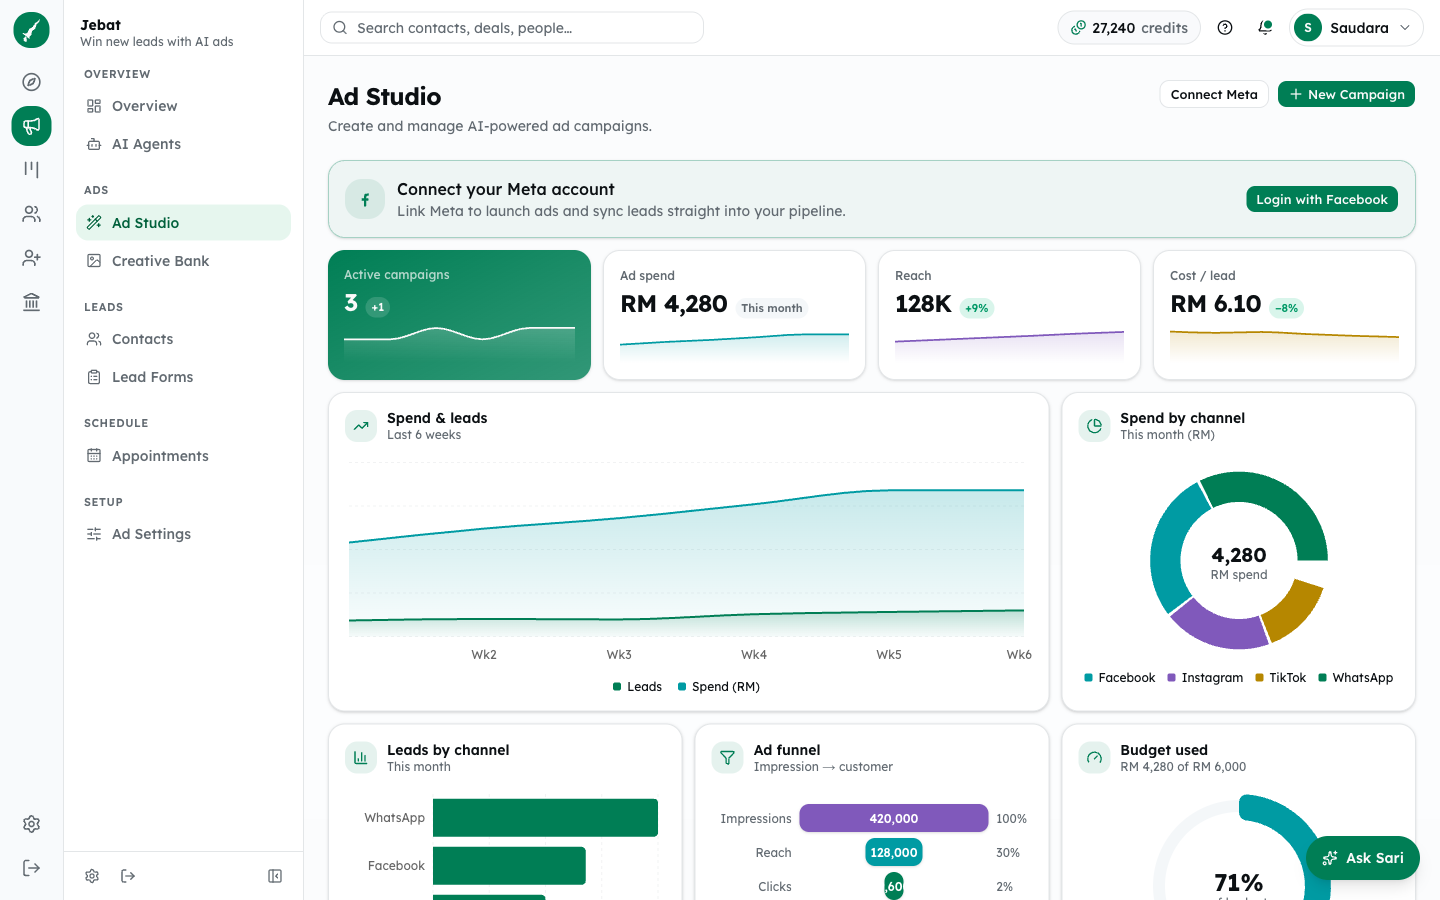
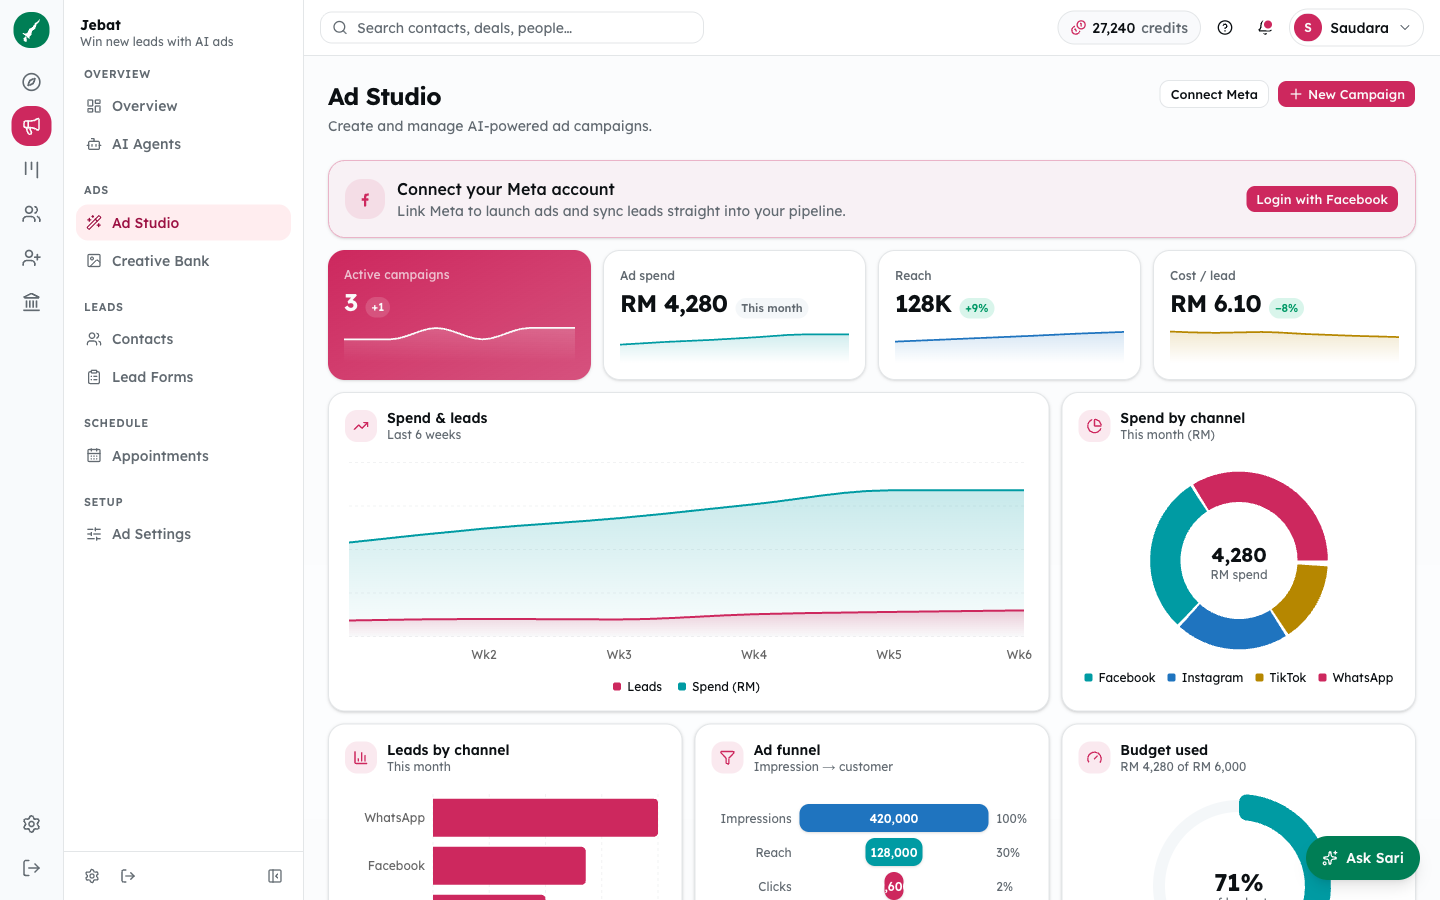
feat-040-product-colours (#48)
* feat: give each product its own accent colour inside the app

* feat: use product colours in the landing tour, keris section and hero

* docs: recapture screenshots with product colours

* fix: remove purple from the palette (blue chart series, slate status chips, rose Jebat)

* docs: recapture screenshots without purple

---------

diff --git a/src/app/globals.css b/src/app/globals.css
@@ -5,6 +5,7 @@
 @custom-variant dark (&:is(.dark *));
 
 @theme inline {
+  --color-brand: var(--brand);
   --color-background: var(--background);
   --color-foreground: var(--foreground);
   --font-sans: var(--font-sans);
@@ -54,6 +55,31 @@
  * Neutrals kept near-grayscale for the clean dashboard surfaces.
  */
 :root {
+  /* Brand emerald: the logo and Taming Sari stay this colour everywhere. */
+  --brand: oklch(0.52 0.125 164);
+
+  /*
+   * One accent per product. The plain value is for light surfaces (white text
+   * sits on it); the -bright value is for dark surfaces such as the landing page.
+   */
+  --product-command: oklch(0.52 0.125 164);
+  --product-command-bright: oklch(0.77 0.15 163);
+  --product-reach: oklch(0.56 0.2 8);
+  --product-reach-bright: oklch(0.76 0.15 8);
+  --product-crm: oklch(0.53 0.095 210);
+  --product-crm-bright: oklch(0.79 0.12 205);
+  --product-people: oklch(0.52 0.16 257);
+  --product-people-bright: oklch(0.75 0.13 250);
+  --product-hire: oklch(0.57 0.17 48);
+  --product-hire-bright: oklch(0.78 0.15 55);
+  --product-finance: oklch(0.54 0.115 78);
+  --product-finance-bright: oklch(0.83 0.14 85);
+
+  /* Active accent; a product scope (below) swaps these three. */
+  --pc: var(--brand);
+  --pc-soft: oklch(0.96 0.02 164);
+  --pc-ink: oklch(0.42 0.12 164);
+
   --background: oklch(1 0 0);
   --foreground: oklch(0.17 0.01 240);
   --card: oklch(1 0 0);
@@ -76,7 +102,7 @@
   --chart-2: oklch(0.62 0.12 200);
   --chart-3: oklch(0.65 0.14 85);
   --chart-4: oklch(0.6 0.16 25);
-  --chart-5: oklch(0.55 0.15 300);
+  --chart-5: oklch(0.55 0.14 250);
   --radius: 0.75rem;
   --sidebar: oklch(0.985 0.003 240);
   --sidebar-foreground: oklch(0.3 0.01 245);
@@ -111,7 +137,7 @@
   --chart-2: oklch(0.67 0.12 200);
   --chart-3: oklch(0.7 0.14 85);
   --chart-4: oklch(0.65 0.16 25);
-  --chart-5: oklch(0.62 0.15 300);
+  --chart-5: oklch(0.67 0.13 250);
   --sidebar: oklch(0.21 0.017 250);
   --sidebar-foreground: oklch(0.985 0 0);
   --sidebar-primary: oklch(0.64 0.13 164);
@@ -120,6 +146,64 @@
   --sidebar-accent-foreground: oklch(0.9 0.05 164);
   --sidebar-border: oklch(1 0 0 / 10%);
   --sidebar-ring: oklch(0.64 0.13 164);
+}
+
+/*
+ * Product scopes. Inside the app, [data-product] re-points the accent tokens at
+ * the active product's colour, so buttons, active nav, focus rings and the first
+ * chart series follow it. .brand-scope pins an element back to brand emerald.
+ */
+[data-product='command'] {
+  --pc: var(--product-command);
+  --pc-soft: oklch(0.96 0.02 164);
+  --pc-ink: oklch(0.42 0.12 164);
+}
+[data-product='reach'] {
+  --pc: var(--product-reach);
+  --pc-soft: oklch(0.96 0.02 8);
+  --pc-ink: oklch(0.45 0.17 8);
+}
+[data-product='crm'] {
+  --pc: var(--product-crm);
+  --pc-soft: oklch(0.96 0.02 210);
+  --pc-ink: oklch(0.42 0.085 210);
+  /* The default second series is teal too; hand it the freed-up emerald. */
+  --chart-2: var(--brand);
+}
+[data-product='people'] {
+  --pc: var(--product-people);
+  --pc-soft: oklch(0.96 0.02 257);
+  --pc-ink: oklch(0.42 0.15 257);
+  /* The default fifth series is blue too; hand it the freed-up emerald. */
+  --chart-5: var(--brand);
+}
+[data-product='hire'] {
+  --pc: var(--product-hire);
+  --pc-soft: oklch(0.96 0.025 55);
+  --pc-ink: oklch(0.45 0.14 45);
+}
+[data-product='finance'] {
+  --pc: var(--product-finance);
+  --pc-soft: oklch(0.96 0.03 85);
+  --pc-ink: oklch(0.43 0.095 75);
+  --chart-3: var(--brand);
+}
+.brand-scope {
+  --pc: var(--brand);
+  --pc-soft: oklch(0.96 0.02 164);
+  --pc-ink: oklch(0.42 0.12 164);
+}
+[data-product],
+.brand-scope {
+  --primary: var(--pc);
+  --ring: var(--pc);
+  --accent: var(--pc-soft);
+  --accent-foreground: var(--pc-ink);
+  --chart-1: var(--pc);
+  --sidebar-primary: var(--pc);
+  --sidebar-accent: var(--pc-soft);
+  --sidebar-accent-foreground: var(--pc-ink);
+  --sidebar-ring: var(--pc);
 }
 
 @layer base {

diff --git a/src/components/marketing/landing/connected.tsx b/src/components/marketing/landing/connected.tsx
@@ -158,15 +158,15 @@ export function Connected() {
                 <path
                   data-link
                   d={p.path}
-                  stroke="rgb(52 211 153)"
-                  strokeOpacity="0.35"
+                  style={{ stroke: `var(--product-${p.key}-bright)` }}
+                  strokeOpacity="0.45"
                   strokeWidth="1.5"
                 />
                 <path
                   data-pulse
                   d={p.path}
                   pathLength={100}
-                  stroke="rgb(167 243 208)"
+                  style={{ stroke: `var(--product-${p.key}-bright)` }}
                   strokeWidth="2.5"
                   strokeDasharray="6 94"
                 />
@@ -184,15 +184,20 @@ export function Connected() {
                     'min-w-0 lg:absolute lg:w-[25%] lg:-translate-y-1/2',
                     p.side === 'left' ? 'lg:left-0' : 'lg:right-0',
                   )}
-                  style={{ top: `${p.top}%` }}
+                  style={
+                    {
+                      top: `${p.top}%`,
+                      '--pc': `var(--product-${p.key}-bright)`,
+                    } as React.CSSProperties
+                  }
                 >
                   <Link
                     href={p.href}
                     data-card={p.side}
-                    className="group block rounded-2xl border border-white/10 bg-[#0b1210]/90 p-4 backdrop-blur transition-colors duration-300 hover:border-emerald-400/60 hover:bg-[#0f1a16]"
+                    className="group block rounded-2xl border border-white/10 bg-[#0b1210]/90 p-4 backdrop-blur transition-colors duration-300 hover:border-(--pc)/70 hover:bg-[#0f1a16]"
                   >
                     <div className="flex items-center gap-3">
-                      <span className="grid size-10 shrink-0 place-items-center rounded-xl bg-emerald-400/10 text-emerald-400 transition-colors group-hover:bg-emerald-400 group-hover:text-[#050807]">
+                      <span className="grid size-10 shrink-0 place-items-center rounded-xl bg-(--pc)/12 text-(--pc) transition-colors group-hover:bg-(--pc) group-hover:text-[#050807]">
                         <Icon className="size-5" />
                       </span>
                       <div className="min-w-0">
@@ -203,7 +208,7 @@ export function Connected() {
                           {LEGEND[p.key].name} · {p.category}
                         </p>
                       </div>
-                      <ArrowUpRight className="ml-auto size-4 shrink-0 text-white/30 transition-all group-hover:-translate-y-0.5 group-hover:translate-x-0.5 group-hover:text-emerald-400" />
+                      <ArrowUpRight className="ml-auto size-4 shrink-0 text-white/30 transition-all group-hover:-translate-y-0.5 group-hover:translate-x-0.5 group-hover:text-(--pc)" />
                     </div>
                     <p className="mt-3 text-sm font-medium text-white/85">
                       {p.tagline}

diff --git a/src/components/marketing/landing/product-tour.tsx b/src/components/marketing/landing/product-tour.tsx
@@ -59,7 +59,13 @@ export function ProductTour() {
     <section
       ref={root}
       id="products"
-      className="relative bg-[#050807] text-white h-[520vh]"
+      className="relative h-[520vh] bg-[#050807] text-white"
+      style={
+        {
+          '--pc': `var(--product-${current.key}-bright)`,
+          '--frame-glow': 'color-mix(in oklch, var(--pc) 38%, transparent)',
+        } as React.CSSProperties
+      }
     >
       <div className="flex flex-col justify-center sticky top-0 h-dvh overflow-hidden px-6">
         <div className="mx-auto grid w-full max-w-[1500px] items-center gap-8 lg:grid-cols-[0.55fr_1.45fr] lg:gap-12">
@@ -76,7 +82,7 @@ export function ProductTour() {
                   className={cn(
                     'text-2xl font-bold tracking-tight transition-all duration-500 motion-reduce:transition-none sm:text-3xl lg:text-5xl',
                     i === active
-                      ? 'text-white lg:translate-x-3'
+                      ? 'text-(--pc) lg:translate-x-3'
                       : 'text-white/20',
                   )}
                 >
@@ -92,9 +98,9 @@ export function ProductTour() {
               </p>
               <p className="mt-2 text-xl font-semibold">{current.tagline}</p>
               <p className="mt-2 max-w-md text-white/60">{current.blurb}</p>
-              <div className="mt-4 flex max-w-md gap-2.5 border-l border-emerald-400/40 pl-3 text-sm">
+              <div className="mt-4 flex max-w-md gap-2.5 border-l border-(--pc)/50 pl-3 text-sm">
                 <p className="text-white/55">
-                  <span className="font-mono text-[11px] uppercase tracking-[0.2em] text-emerald-400">
+                  <span className="font-mono text-[11px] uppercase tracking-[0.2em] text-(--pc)">
                     why {current.name}
                   </span>
                   <br />
@@ -106,7 +112,7 @@ export function ProductTour() {
               </div>
               <Link
                 href={current.href}
-                className="mt-4 inline-flex items-center gap-1.5 text-sm font-semibold text-emerald-400 hover:underline"
+                className="mt-4 inline-flex items-center gap-1.5 text-sm font-semibold text-(--pc) hover:underline"
               >
                 Open {current.name}
                 <ArrowRight className="size-4" />
@@ -116,7 +122,7 @@ export function ProductTour() {
             <div className="mt-6 h-px w-full max-w-md bg-white/10">
               <div
                 data-tour-progress
-                className="h-px origin-left scale-x-0 bg-emerald-400"
+                className="h-px origin-left scale-x-0 bg-(--pc)"
               />
             </div>
           </div>

diff --git a/src/screens/crm/calendar.tsx b/src/screens/crm/calendar.tsx
@@ -23,7 +23,7 @@ const TODAY = 9; // Friday, 09 October 2026
 
 const EVENTS: Record<number, { label: string; className: string }> = {
   7: { label: 'Team sync', className: 'bg-primary/10 text-primary' },
-  9: { label: 'Townhall · 3pm', className: 'bg-violet-500/10 text-violet-600' },
+  9: { label: 'Townhall · 3pm', className: 'bg-slate-500/10 text-slate-600' },
   14: { label: 'Project review', className: 'bg-blue-500/10 text-blue-600' },
   16: { label: '1:1 check-ins', className: 'bg-primary/10 text-primary' },
   21: { label: 'Planning session', className: 'bg-amber-500/10 text-amber-600' },
@@ -32,7 +32,7 @@ const EVENTS: Record<number, { label: string; className: string }> = {
 
 type AgendaItem = { title: string; when: string; dot: string };
 const AGENDA: AgendaItem[] = [
-  { title: 'Townhall', when: 'Today · 3:00pm', dot: 'bg-violet-500' },
+  { title: 'Townhall', when: 'Today · 3:00pm', dot: 'bg-slate-500' },
   { title: 'Project review', when: 'Wed 14 Oct · 10:00am', dot: 'bg-blue-500' },
   { title: '1:1 check-ins', when: 'Fri 16 Oct · 2:00pm', dot: 'bg-primary' },
   { title: 'Planning session', when: 'Wed 21 Oct · 11:00am', dot: 'bg-amber-500' },

diff --git a/src/components/app/assistant-fab.tsx b/src/components/app/assistant-fab.tsx
@@ -27,7 +27,7 @@ export function AssistantFab() {
         <button
           type="button"
           onClick={() => setOpen(true)}
-          className="fixed bottom-5 right-5 z-30 inline-flex items-center gap-2 rounded-full bg-primary px-4 py-3 text-sm font-semibold text-primary-foreground shadow-lg transition hover:brightness-110 focus-visible:outline-none focus-visible:ring-2 focus-visible:ring-ring focus-visible:ring-offset-2"
+          className="brand-scope fixed bottom-5 right-5 z-30 inline-flex items-center gap-2 rounded-full bg-primary px-4 py-3 text-sm font-semibold text-primary-foreground shadow-lg transition hover:brightness-110 focus-visible:outline-none focus-visible:ring-2 focus-visible:ring-ring focus-visible:ring-offset-2"
           aria-label={`Ask ${ASSISTANT.name}`}
         >
           <Sparkles className="size-4" />
@@ -36,7 +36,7 @@ export function AssistantFab() {
       ) : null}
 
       {open ? (
-        <div className="fixed inset-0 z-50">
+        <div className="brand-scope fixed inset-0 z-50">
           <div
             className="absolute inset-0 bg-black/40"
             onClick={() => setOpen(false)}

diff --git a/src/components/app/app-shell.tsx b/src/components/app/app-shell.tsx
@@ -1,6 +1,6 @@
 'use client';
 
-import { useState } from 'react';
+import { useEffect, useState } from 'react';
 import { usePathname } from 'next/navigation';
 import { getProduct } from '@/config/nav';
 import { ProductRail } from './product-rail';
@@ -24,9 +24,23 @@ export function AppShell({ children }: { children: React.ReactNode }) {
     setMobileNavOpen(false);
   }
 
+  // Menus and dialogs render outside the shell, so the active product's colour
+  // scope is mirrored onto <html> for them.
+  const productKey = product?.key;
+  useEffect(() => {
+    if (!productKey) return;
+    document.documentElement.dataset.product = productKey;
+    return () => {
+      delete document.documentElement.dataset.product;
+    };
+  }, [productKey]);
+
   return (
     <TooltipProvider delayDuration={0}>
-      <div className="flex h-dvh w-full overflow-hidden">
+      <div
+        data-product={productKey}
+        className="flex h-dvh w-full overflow-hidden"
+      >
         <ProductRail activeKey={key} />
 
         {/* Secondary nav — inline from md up (unless collapsed) */}

diff --git a/src/components/screen/stat-card.tsx b/src/components/screen/stat-card.tsx
@@ -1,14 +1,14 @@
 import { type LucideIcon } from 'lucide-react';
 import { cn } from '@/lib/utils';
 
-export type StatTone = 'primary' | 'blue' | 'amber' | 'green' | 'violet';
+export type StatTone = 'primary' | 'blue' | 'amber' | 'green' | 'slate';
 
 const TONES: Record<StatTone, string> = {
   primary: 'bg-primary/10 text-primary',
   blue: 'bg-blue-500/10 text-blue-600 dark:text-blue-400',
   amber: 'bg-amber-500/10 text-amber-600 dark:text-amber-400',
   green: 'bg-emerald-500/10 text-emerald-600 dark:text-emerald-400',
-  violet: 'bg-violet-500/10 text-violet-600 dark:text-violet-400',
+  slate: 'bg-slate-500/10 text-slate-600 dark:text-slate-400',
 };
 
 /** Compact KPI tile: label, value, optional note, and a tinted icon chip. */

diff --git a/src/components/marketing/landing/hero.tsx b/src/components/marketing/landing/hero.tsx
@@ -173,7 +173,12 @@ export function Hero() {
             className="mt-10 flex flex-wrap justify-center gap-x-5 gap-y-2 font-mono text-xs uppercase tracking-[0.2em] text-white/45"
           >
             {PRODUCT_CARDS.map((p) => (
-              <li key={p.key} className="flex items-center gap-5">
+              <li
+                key={p.key}
+                className="flex items-center gap-2"
+                style={{ color: `var(--product-${p.key}-bright)` }}
+              >
+                <span aria-hidden className="size-1.5 rounded-full bg-current" />
                 {p.name}
               </li>
             ))}

diff --git a/src/screens/people/shift-calendar.tsx b/src/screens/people/shift-calendar.tsx
@@ -31,7 +31,7 @@ type Shift = 'M' | 'N' | 'O';
 
 const SHIFTS: Record<Shift, { label: string; className: string }> = {
   M: { label: 'Morning (9–5)', className: 'bg-primary/10 text-primary' },
-  N: { label: 'Night (10–6)', className: 'bg-violet-500/10 text-violet-600' },
+  N: { label: 'Night (10–6)', className: 'bg-slate-500/10 text-slate-600' },
   O: { label: 'Off', className: 'bg-muted text-muted-foreground' },
 };
 

diff --git a/src/components/marketing/landing/browser-frame.tsx b/src/components/marketing/landing/browser-frame.tsx
@@ -13,7 +13,7 @@ export function BrowserFrame({
   return (
     <div
       className={cn(
-        'overflow-hidden rounded-xl border border-white/10 bg-[#0d1412] shadow-[0_40px_120px_-20px_rgba(16,185,129,0.35)]',
+        'overflow-hidden rounded-xl border border-white/10 bg-[#0d1412] shadow-[0_40px_120px_-20px_var(--frame-glow,rgba(16,185,129,0.35))] transition-shadow duration-700',
         className,
       )}
     >

diff --git a/src/components/brand/logo.tsx b/src/components/brand/logo.tsx
@@ -24,7 +24,7 @@ export function Logo({
     <span className={cn('inline-flex items-center gap-2.5', className)}>
       <span
         className={cn(
-          'grid size-8 shrink-0 place-items-center rounded-lg bg-primary text-primary-foreground',
+          'grid size-8 shrink-0 place-items-center rounded-lg bg-brand text-white',
           markClassName,
         )}
         aria-hidden

diff --git a/src/screens/hire/candidates.tsx b/src/screens/hire/candidates.tsx
@@ -117,7 +117,7 @@ const STAGES: Stage[] = [
   },
   {
     name: 'Interview',
-    dot: 'bg-violet-500',
+    dot: 'bg-slate-500',
     candidates: [
       {
         id: 'c8',
